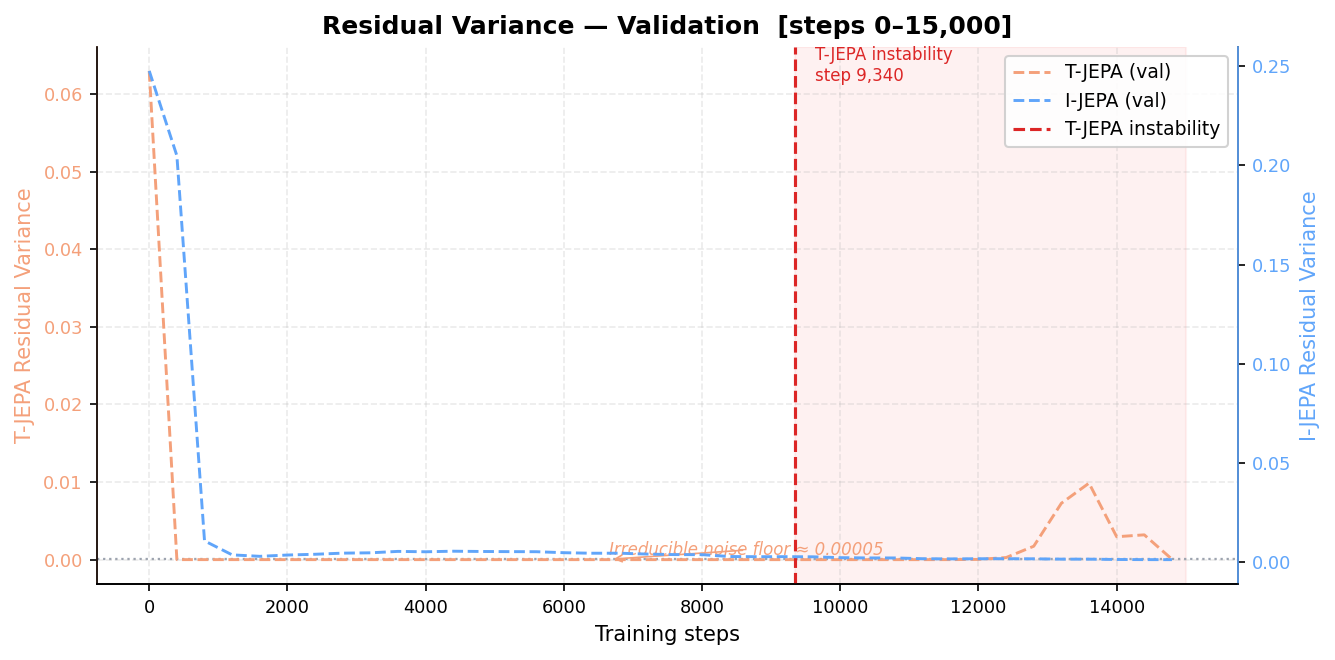
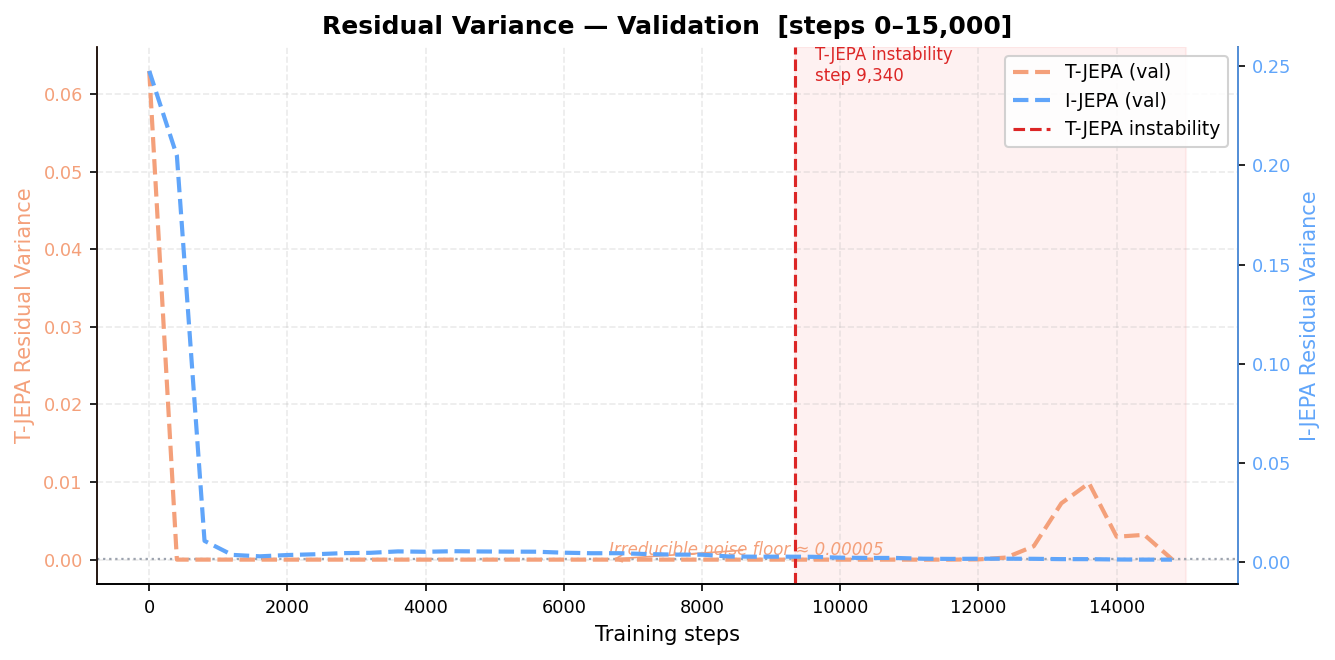
update: visual

diff --git a/Arg-I-II/draw_effective_rank.py b/Arg-I-II/draw_effective_rank.py
@@ -3,7 +3,7 @@
 # Vẽ 3 plot effective rank (dual-axis) so sánh I-JEPA vs T-JEPA:
 #   plot1_rank_train.png  — Train eff. rank (I-JEPA.json vs T-JEPA.json)
 #   plot2_rank_val.png    — Val   eff. rank (I-JEPA_val.json vs T-JEPA_val.json)
-#   plot3_rank_all.png    — Train + Val cả hai trên cùng 1 ảnh (dual-axis)
+#   plot3_rank_all.png    — Train | Val kế nhau (1×2 panel, dual-axis mỗi panel)
 #
 # Dual-axis: T-JEPA trục trái (cam đỏ), I-JEPA trục phải (xanh dương)
 # Chỉ vẽ đến step 15 000.
@@ -28,23 +28,28 @@ TJEPA_VAL   = HERE / "T-JEPA_val.json"
 OUT_DIR  = HERE / "effective_rank"
 OUT_DIR.mkdir(exist_ok=True)
 
-STEP_CAP = 15_000
+STEP_CAP         = 15_000
+INSTABILITY_STEP = 9_340   # T-JEPA bắt đầu mất ổn định
 
 # ── Màu sắc ──────────────────────────────────────────────────────────────────
-C_IJEPA_TRAIN = "#2563EB"   # blue-600
-C_IJEPA_VAL   = "#60A5FA"   # blue-400  (nhạt hơn, dashed)
-C_TJEPA_TRAIN = "#D85A30"   # orange-red
-C_TJEPA_VAL   = "#F4A07A"   # light orange (nhạt hơn, dashed)
+C_IJEPA_TRAIN      = "#2563EB"   # blue-600
+C_IJEPA_VAL        = "#60A5FA"   # blue-400  (nhạt hơn, dashed)
+C_TJEPA_TRAIN      = "#D85A30"   # orange-red
+C_TJEPA_VAL        = "#F4A07A"   # light orange (nhạt hơn, dashed)
+C_INSTABILITY      = "#DC2626"   # red-600  — dashed line
+C_INSTABILITY_FILL = "#FCA5A5"   # red-300  — shaded region
 
 # ── Style ─────────────────────────────────────────────────────────────────────
-FONT_TITLE  = 13
-FONT_LABEL  = 11
-FONT_TICK   = 9
-FONT_LEGEND = 10
-LW          = 1.7
-LW_VAL      = 1.4
-ALPHA_GRID  = 0.25
-FIG_DPI     = 150
+FONT_TITLE   = 13
+FONT_LABEL   = 11
+FONT_TICK    = 9
+FONT_LEGEND  = 10
+FONT_ANNOT   = 8
+LW           = 1.7
+LW_VAL       = 2
+ALPHA_GRID   = 0.25
+ALPHA_INSTAB = 0.15
+FIG_DPI      = 150
 
 
 # ── Helpers ───────────────────────────────────────────────────────────────────
@@ -58,6 +63,25 @@ def load_json(path: Path, step_cap: int = STEP_CAP) -> tuple[list, list]:
     return steps, ranks
 
 
+def add_instability_marker(ax, label: bool = True):
+    """Thêm dashed line đỏ + shaded region từ INSTABILITY_STEP đến STEP_CAP."""
+    ax.axvspan(INSTABILITY_STEP, STEP_CAP,
+               color=C_INSTABILITY_FILL, alpha=ALPHA_INSTAB, zorder=0)
+    ax.axvline(x=INSTABILITY_STEP,
+               color=C_INSTABILITY, linewidth=1.5, linestyle="--", zorder=3,
+               label="T-JEPA instability" if label else None)
+    ymin, ymax = ax.get_ylim()
+    ax.annotate(
+        f"T-JEPA instability\nstep {INSTABILITY_STEP:,}",
+        xy=(INSTABILITY_STEP, ymax),
+        xytext=(INSTABILITY_STEP + 300, ymax),
+        fontsize=FONT_ANNOT,
+        color=C_INSTABILITY,
+        va="top",
+        ha="left",
+    )
+
+
 def make_dual_ax(fig, ax,
                  s_t, r_t, label_t, color_t, ls_t,
                  s_i, r_i, label_i, color_i, ls_i,
@@ -66,7 +90,7 @@ def make_dual_ax(fig, ax,
     Vẽ dual-axis lên (fig, ax):
       - Trục trái  : T-JEPA  (cam đỏ)
       - Trục phải  : I-JEPA  (xanh dương)
-    Trả về (ax_left, ax_right, [line handles]).
+    Trả về (ax_right, [line handles]).
     """
     # ── Trục trái: T-JEPA ──
     ln1, = ax.plot(s_t, r_t, color=color_t, linewidth=lw_t,
@@ -89,8 +113,15 @@ def make_dual_ax(fig, ax,
     ax2.spines["top"].set_visible(False)
 
     ax.set_title(title, fontsize=FONT_TITLE, fontweight="bold")
-    ax.legend(handles=[ln1, ln2],
-              labels=[label_t, label_i],
+
+    # ── Instability marker ──
+    add_instability_marker(ax, label=True)
+
+    # ── Gộp legend ──
+    instab_line = plt.Line2D([0], [0], color=C_INSTABILITY, linewidth=1.5,
+                              linestyle="--", label="T-JEPA instability")
+    ax.legend(handles=[ln1, ln2, instab_line],
+              labels=[label_t, label_i, "T-JEPA instability"],
               fontsize=FONT_LEGEND, framealpha=0.88, loc="upper right")
 
     return ax2, [ln1, ln2]
@@ -142,7 +173,7 @@ def plot2_val():
 
 
 # ─────────────────────────────────────────────────────────────────────────────
-# Plot 3 — Train + Val cả hai (dual-axis, 4 đường)
+# Plot 3 — Train | Val kế nhau (1×2 panel, dual-axis mỗi panel)
 # ─────────────────────────────────────────────────────────────────────────────
 
 def plot3_all():
@@ -151,43 +182,26 @@ def plot3_all():
     s_tt, r_tt = load_json(TJEPA_TRAIN)
     s_tv, r_tv = load_json(TJEPA_VAL)
 
-    fig, ax = plt.subplots(figsize=(11, 5), dpi=FIG_DPI)
+    fig, (ax_tr, ax_val) = plt.subplots(1, 2, figsize=(18, 5), dpi=FIG_DPI)
 
-    # ── Trục trái: T-JEPA (train solid, val dashed) ──
-    ln1, = ax.plot(s_tt, r_tt, color=C_TJEPA_TRAIN, linewidth=LW,
-                   linestyle="-",  label="T-JEPA train")
-    ln2, = ax.plot(s_tv, r_tv, color=C_TJEPA_VAL,   linewidth=LW_VAL,
-                   linestyle="--", label="T-JEPA val")
-    ax.set_ylabel("T-JEPA Effective Rank", fontsize=FONT_LABEL, color=C_TJEPA_TRAIN)
-    ax.tick_params(axis="y", labelcolor=C_TJEPA_TRAIN, labelsize=FONT_TICK)
-    ax.tick_params(axis="x", labelsize=FONT_TICK)
-    ax.spines["left"].set_edgecolor(C_TJEPA_TRAIN)
-    ax.spines["top"].set_visible(False)
-    ax.grid(True, alpha=ALPHA_GRID, linestyle="--")
-    ax.set_xlabel("Training steps", fontsize=FONT_LABEL)
-
-    # ── Trục phải: I-JEPA (train solid, val dashed) ──
-    ax2 = ax.twinx()
-    ln3, = ax2.plot(s_it, r_it, color=C_IJEPA_TRAIN, linewidth=LW,
-                    linestyle="-",  label="I-JEPA train")
-    ln4, = ax2.plot(s_iv, r_iv, color=C_IJEPA_VAL,   linewidth=LW_VAL,
-                    linestyle="--", label="I-JEPA val")
-    ax2.set_ylabel("I-JEPA Effective Rank", fontsize=FONT_LABEL, color=C_IJEPA_TRAIN)
-    ax2.tick_params(axis="y", labelcolor=C_IJEPA_TRAIN, labelsize=FONT_TICK)
-    ax2.spines["right"].set_edgecolor(C_IJEPA_TRAIN)
-    ax2.spines["top"].set_visible(False)
-
-    # ── Gộp legend 4 đường ──
-    ax.legend(handles=[ln1, ln2, ln3, ln4],
-              labels=["T-JEPA train", "T-JEPA val", "I-JEPA train", "I-JEPA val"],
-              fontsize=FONT_LEGEND, framealpha=0.88, loc="upper right")
-
-    ax.set_title(
-        f"Train & Validation Effective Rank — I-JEPA vs T-JEPA (dual axis)\n"
-        f"[steps 0–{STEP_CAP:,}]",
-        fontsize=FONT_TITLE, fontweight="bold",
+    make_dual_ax(
+        fig, ax_tr,
+        s_tt, r_tt, "T-JEPA train", C_TJEPA_TRAIN, "-",
+        s_it, r_it, "I-JEPA train", C_IJEPA_TRAIN, "-",
+        title="Train Effective Rank (dual axis)",
+    )
+    make_dual_ax(
+        fig, ax_val,
+        s_tv, r_tv, "T-JEPA val", C_TJEPA_VAL, "--",
+        s_iv, r_iv, "I-JEPA val", C_IJEPA_VAL, "--",
+        title="Validation Effective Rank (dual axis)",
+        lw_t=LW_VAL, lw_i=LW_VAL,
     )
 
+    fig.suptitle(
+        f"Train & Validation Effective Rank — I-JEPA vs T-JEPA  [steps 0–{STEP_CAP:,}]",
+        fontsize=FONT_TITLE, fontweight="bold", y=1.02,
+    )
     fig.tight_layout()
     out = OUT_DIR / "plot3_rank_all.png"
     fig.savefig(out, dpi=FIG_DPI, bbox_inches="tight")

diff --git a/Arg-I-II/draw_residual_var.py b/Arg-I-II/draw_residual_var.py
@@ -52,7 +52,7 @@ FONT_TICK   = 8.5
 FONT_LEGEND = 9
 FONT_ANNOT  = 8
 LW          = 1.7
-LW_VAL      = 1.4
+LW_VAL      = 2
 LW_HLINE    = 1.1
 ALPHA_GRID  = 0.25
 ALPHA_INSTAB = 0.15
